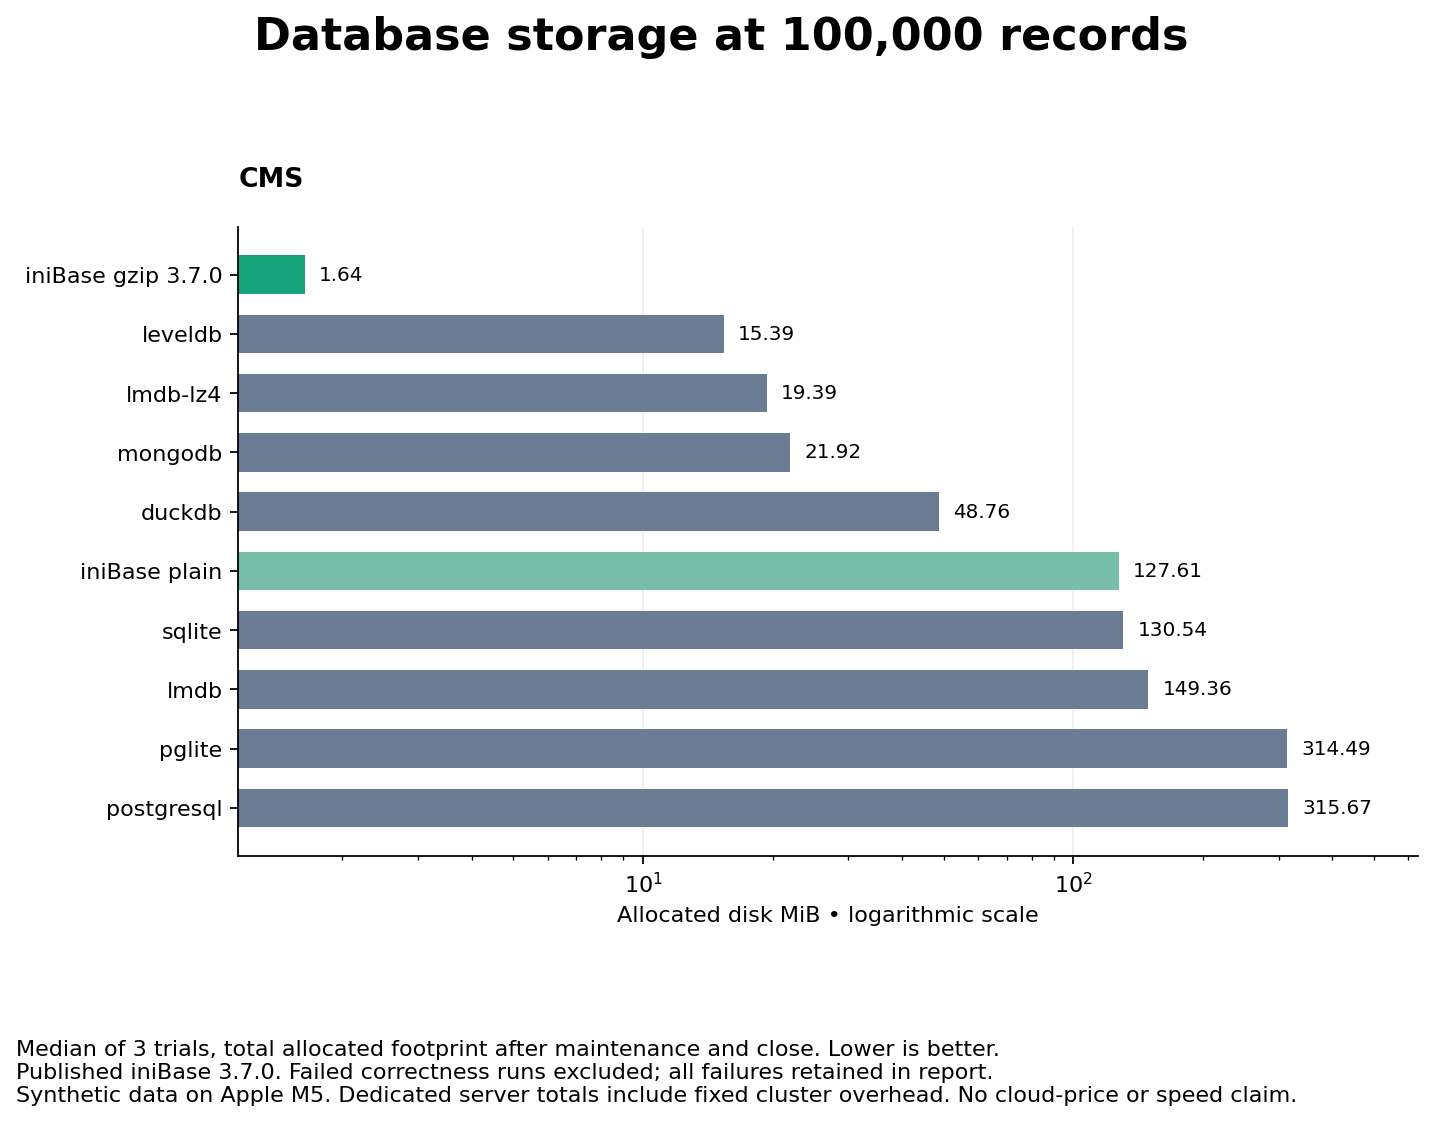
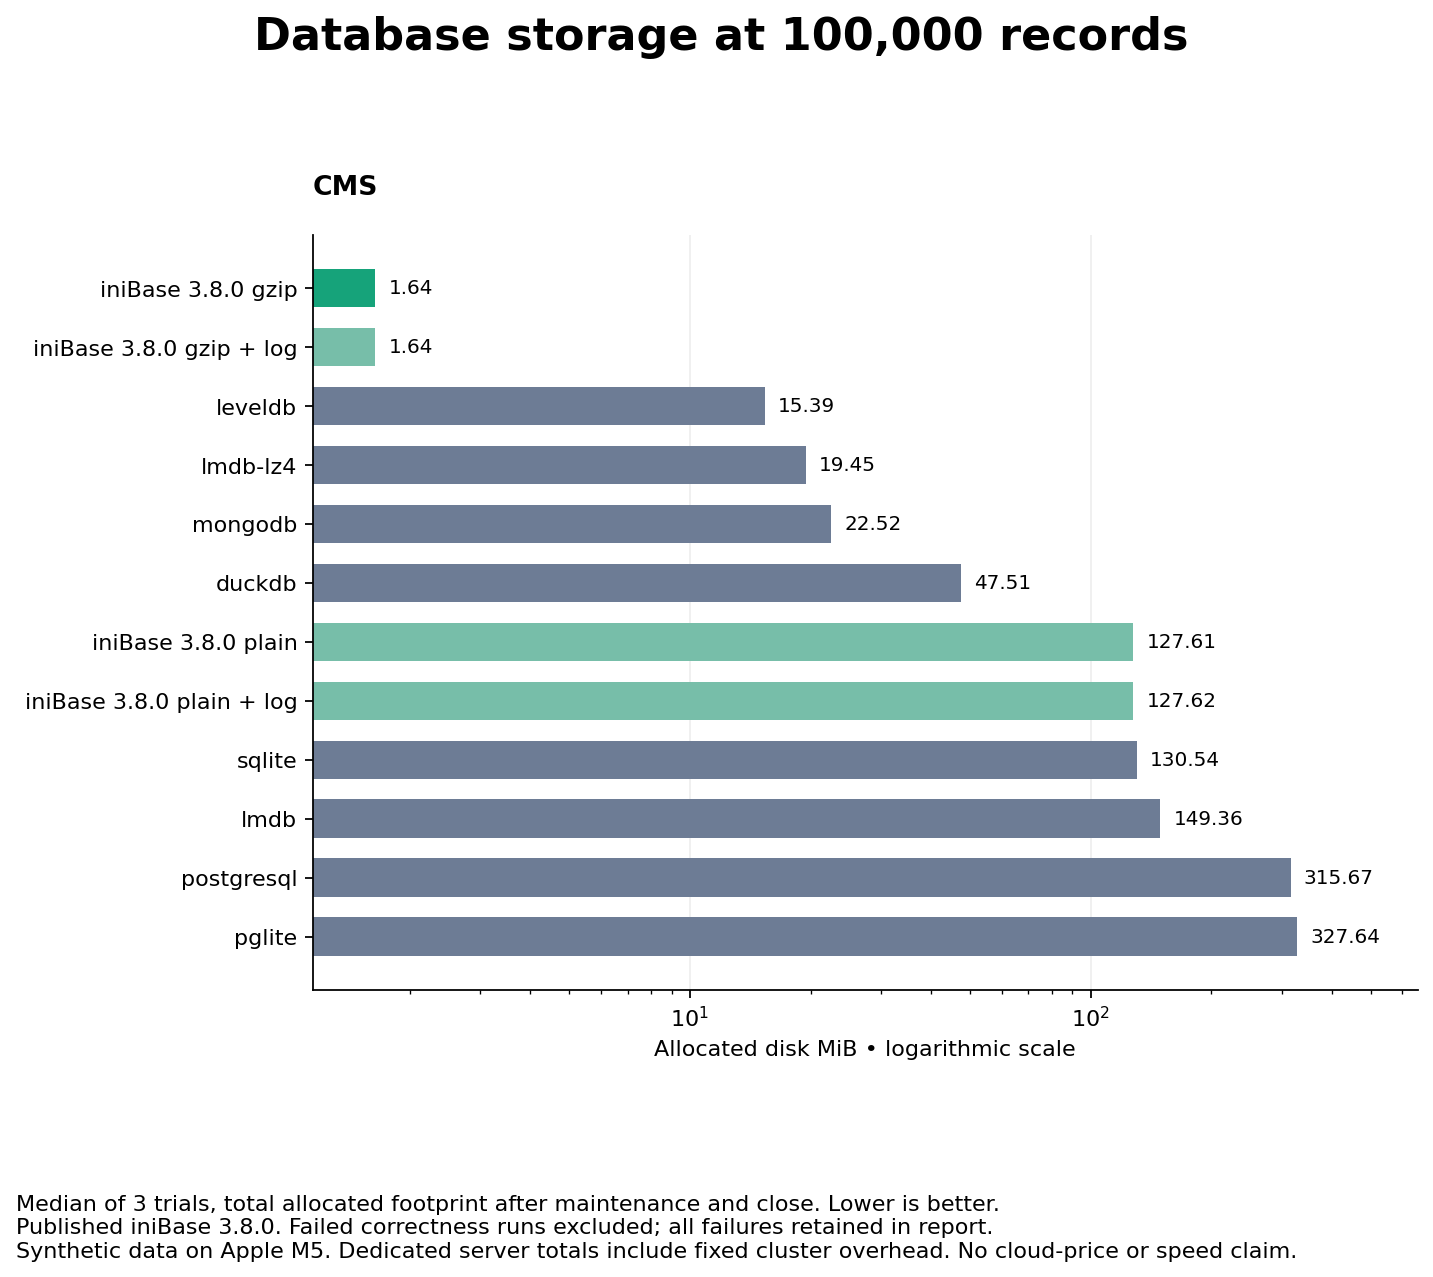
Update README with verified 3.8.0 storage and write benchmarks

diff --git a/README.md b/README.md
@@ -12,13 +12,13 @@
 
 Inibase is a file-based TypeScript database designed for **fast data access and low memory usage**, with column selection, built-in caching, and optional gzip compression.
 
-In the **100,000-record CMS benchmark**, Inibase **3.7.0 with gzip** used **1.64 MiB of allocated disk** — **89.4% less than LevelDB** and **98.7% less than SQLite**. Reading two selected columns took **44.3 ms** in the same workload.
+In the **100,000-record CMS benchmark**, published **Inibase 3.8.0 with gzip and `log: true`** used **1.64 MiB of allocated disk** after bulk loading — **89.3% less than LevelDB** and **98.7% less than SQLite**. Five committed updates took **175 ms**, versus **5174 ms** with the default gzip update path. A full read took **258 ms**, and a two-column projection took **64 ms**, both before updates.
 
-[![Database storage comparison for 100,000 CMS records: Inibase gzip uses 1.64 MiB of allocated disk; lower is better](./.github/assets/storage-benchmark-100k.png)](https://github.com/inicontent/benchmarks/blob/a6c4a644aa5472192fefefe0f3d93b56edc9726a/results/large-cms/REPORT.md)
+[![Database storage comparison for 100,000 CMS records with published Inibase 3.8.0; lower is better](./.github/assets/storage-benchmark-100k.png)](https://github.com/inicontent/benchmarks/blob/11123a511e1c5dc2dce0b80f113ab1f65c02093d/results/large-cms/REPORT.md)
 
-*Source: [inicontent/benchmarks](https://github.com/inicontent/benchmarks/blob/a6c4a644aa5472192fefefe0f3d93b56edc9726a/results/large-cms/REPORT.md), median of three trials on Apple M5 with repetitive synthetic CMS content and full durability. The chart measures disk storage, not RAM. Results depend on the workload; indexed competitors were faster for key lookups.*
+*Source: [inicontent/benchmarks](https://github.com/inicontent/benchmarks/blob/11123a511e1c5dc2dce0b80f113ab1f65c02093d/results/large-cms/REPORT.md), medians of three trials on Apple M5 with repetitive synthetic CMS content, full durability, and query caching disabled. Storage is measured before updates; reads are affected by the OS cache. Logging is opt-in and defers work to compaction, which may increase delete costs. Indexed competitors remain faster for key lookups. See [all operation timings](#benchmark).*
 
-[Explore the full results](https://github.com/inicontent/benchmarks/blob/a6c4a644aa5472192fefefe0f3d93b56edc9726a/results/large-cms/REPORT.md) · [Read the methodology](https://github.com/inicontent/benchmarks/blob/a6c4a644aa5472192fefefe0f3d93b56edc9726a/METHODOLOGY.md)
+[Explore the full results](https://github.com/inicontent/benchmarks/blob/11123a511e1c5dc2dce0b80f113ab1f65c02093d/results/large-cms/REPORT.md) · [Read the methodology](https://github.com/inicontent/benchmarks/blob/11123a511e1c5dc2dce0b80f113ab1f65c02093d/METHODOLOGY.md) · [Enable incremental updates](#incremental-update-log)
 
 ## Features
 
@@ -1117,57 +1117,50 @@ are derived first, in dependency order.
 
 ## Benchmark
 
-### Bulk
+### Published 3.8.0: 100,000 CMS records
 
-|        | 10                | 100               | 1000              |
-|--------|-------------------|-------------------|-------------------|
-| POST   | 11 ms (0.66 mb)   | 5 ms (1.02 mb)    | 24 ms (1.44 mb)   |
-| GET    | 29 ms (2.86 mb)   | 24 ms (2.81 mb)   | 36 ms (0.89 mb)   |
-| PUT    | 21 ms (2.68 mb)   | 16 ms (2.90 mb)   | 12 ms (0.63 mb)   |
-| DELETE | 14 ms (0.82 mb)   | 13 ms (0.84 mb)   | 2 ms (0.17 mb)    |
+**252/252 trials passed** across the comparison suite: eight engines, twelve configurations, three datasets at 1,000 and 10,000 records, plus this 100,000-record CMS run. Every successful trial verifies full content, projections, lookups, updates, and the remaining records after deletion.
 
+The table shows **median total milliseconds across three trials; lower is better**. These are database API operations, not HTTP requests.
 
-### Single
+- **POST:** insert all 100,000 records in batches of 1,000, including commit/flush and excluding separately reported maintenance.
+- **GET:** read all 100,000 records; projection returns only `seq` and `category`. Both are measured before updates and are cache-affected.
+- **PUT:** five separate committed updates selected by application key, setting `score` to `-1`.
+- **DELETE:** five separate committed deletions, including any compaction the engine triggers.
 
-|        | 10                  | 100                | 1000               |
-|--------|---------------------|--------------------|--------------------|
-| POST   | 45 ms (1.07 mb)     | 12 ms (0.52 mb)    | 11 ms (0.37 mb)    |
-| GET    | 200 ms (2.15 mb)    | 192 ms (2.72 mb)   | 190 ms (2.31 mb)   |
-| PUT    | 49 ms (3.22 mb)     | 17 ms (2.98 mb)    | 17 ms (3.06 mb)    |
-| DELETE | 118 ms (0.59 mb)    | 113 ms (0.51 mb)   | 103 ms (3.14 mb)   |
+| Configuration | POST 100k | GET 100k | GET projection 100k | PUT 5 records | DELETE 5 records |
+|---|---:|---:|---:|---:|---:|
+| Inibase 3.8.0 plain | 6629.709 | 229.705 | 58.865 | 738.768 | 1208.188 |
+| Inibase 3.8.0 gzip | 3141.852 | 258.723 | 63.058 | 5174.360 | 1932.057 |
+| Inibase 3.8.0 plain + log | 7305.530 | 257.801 | 64.880 | 178.175 | 1382.575 |
+| Inibase 3.8.0 gzip + log | 3194.676 | 257.580 | 64.079 | 175.072 | 3273.597 |
+| SQLite | 358.504 | 113.873 | 47.684 | 0.731 | 0.302 |
+| DuckDB | 1051.170 | 171.503 | 23.602 | 2.368 | 0.898 |
+| PGlite | 1084.946 | 421.289 | 168.332 | 1.658 | 0.678 |
+| PostgreSQL | 580.652 | 105.262 | 26.082 | 0.995 | 0.486 |
+| MongoDB | 636.233 | 408.611 | 113.722 | 18.148 | 20.182 |
+| LevelDB | 316.729 | 231.328 | 226.973 | 0.793 | 0.452 |
+| LMDB | 522.254 | 167.659 | 113.197 | 19.052 | 19.994 |
+| LMDB LZ4 | 1552.237 | 170.728 | 135.092 | 20.034 | 19.979 |
 
-> Default testing uses a table with username, email, and password fields, ensuring password encryption is included in the process<br>
-> Results are measured on a default table plus dedicated tables with `prepend`, `compression`, and `decodeID` configs enabled<br>
-> To run benchmarks, install _typescript_ & _[tsx](https://github.com/privatenumber/tsx)_ globally and run `benchmark` by default bulk, for single use `benchmark --single|-s`
->
-> > [!WARNING]
-> > The numbers above were measured **before** always-on fsync + write-ahead journaling landed (they no longer reflect current hot-path write costs). Run `pnpm benchmark:durability` for the crash-atomic numbers.
+**Small storage, faster incremental updates.** In this workload, gzip + log stores the initial dataset in **1.641 MiB** and reduces the five-update total by **29.6×** compared with the default 3.8.0 gzip path. Bulk insertion remains around **3.2 seconds**. The following five deletes take **3274 ms** with logging versus **1932 ms** without it; that cost includes any triggered compaction.
 
-### Computed fields
+The [update log](#incremental-update-log) is opt-in and currently restricts transactions and schema changes. This short update test does not measure sustained compaction amortization, pending-overlay read latency, peak log space, or crash recovery. Inibase filters on the application `seq` field; competitors use native primary-key indexes. Durability and feature coverage differ across engines. The corpus is repetitive synthetic CMS content, not production customer data; high-entropy and compact-record controls are included in the main report.
 
-![Bulk POST benchmark comparing plain and computed fields for 10, 100, and 1,000 rows; lower is better](./.github/assets/computed-benchmark.svg)
+[All datasets and storage results](https://github.com/inicontent/benchmarks/blob/11123a511e1c5dc2dce0b80f113ab1f65c02093d/results/latest/REPORT.md) · [100,000-record report](https://github.com/inicontent/benchmarks/blob/11123a511e1c5dc2dce0b80f113ab1f65c02093d/results/large-cms/REPORT.md) · [Raw samples](https://github.com/inicontent/benchmarks/blob/11123a511e1c5dc2dce0b80f113ab1f65c02093d/results/large-cms/results.json) · [Methodology](https://github.com/inicontent/benchmarks/blob/11123a511e1c5dc2dce0b80f113ab1f65c02093d/METHODOLOGY.md)
 
-*Charted from the results below, with fsync and journaling enabled. These are recorded sample measurements, not a new benchmark run; hardware and version were not recorded with this table.*
+### Reproduce and profile
 
-Write-time evaluation cost (helpers `sum(3 * 4)`, `avg(4)`, `min(4)`, `max(4)`, `count(3)` over an `items` array with 3 lines, plus an arithmetic field `itemTotal × (314 / 100)`), compared against the identical table without computed fields:
+Run the cross-database suite from [inicontent/benchmarks](https://github.com/inicontent/benchmarks). Its package lock pins the published package and competitor versions; instructions include the exact workloads and configuration labels.
 
-| rows | POST bulk (plain / computed) | POST single (plain / computed) | PUT recompute (plain / computed) |
-|------|------------------------------|--------------------------------|----------------------------------|
-| 10   | 21.90 / 22.69 ms             | 25.24 / 26.80 ms               | 23.10 / 37.07 ms                 |
-| 100  | 22.00 / 25.23 ms             | 25.24 / 26.80 ms               | 22.16 / 40.00 ms                 |
-| 1000 | 28.79 / 35.15 ms             | 25.24 / 26.80 ms               | 21.01 / 45.05 ms                 |
+For local engine development, the following scripts measure different workloads and should not be compared directly with the table above:
 
-> Min of 3 rounds (fsync + journal on); the plain-vs-computed delta is the pure expression-evaluation cost (~6 ms/1000 rows of helpers on POST, more on `PUT` because every matched row is recomputed). GET all (1110 rows): 11.44 / 15.90 ms — computed values are stored in real column files, so reads never evaluate; the gap is the larger column count to scan. Run `pnpm benchmark:computed` to reproduce.
-
-**Link-heavy: shared product catalog with batched link-hop reads.** Every order's line items reference a shared 20-row catalog; `totalCentsLive = sum(quantity, product.price)` follows one link hop per line item. The engine batches the hops across the whole post: each batch resolves at most one read per **distinct** `(table, column, id)` triple (here: catalogSize=20 product rows) instead of one full row-level read per line item (2000 reads for 1000 orders × 2 items):
-
-| rows | POST bulk (lk link hop) |
-|------|-------------------------|
-| 10   | 42.29 ms                |
-| 100  | 47.76 ms                |
-| 1000 | 59.46 ms                |
-
-> Shared 20-row catalog (10/100/1000 orders × 2 line items). Without batching every line item re-reads its product row; with it each batch resolves ≤ catalogSize distinct linked rows once (deduplicated across every line item and every order of the batch) and re-evaluates against the warm in-memory cache. A dangling link anywhere in the batch still rejects the whole post (`COMPUTED_FIELD_DANGLING_LINK`). HTTP-request bound, not disk-bound: the cost scales with the number of *distinct* linked rows the catalog actually has, not with line-item count.
+```sh
+pnpm benchmark
+pnpm benchmark:durability
+pnpm benchmark:updatelog
+pnpm benchmark:computed
+```
 
 ## Roadmap
 
